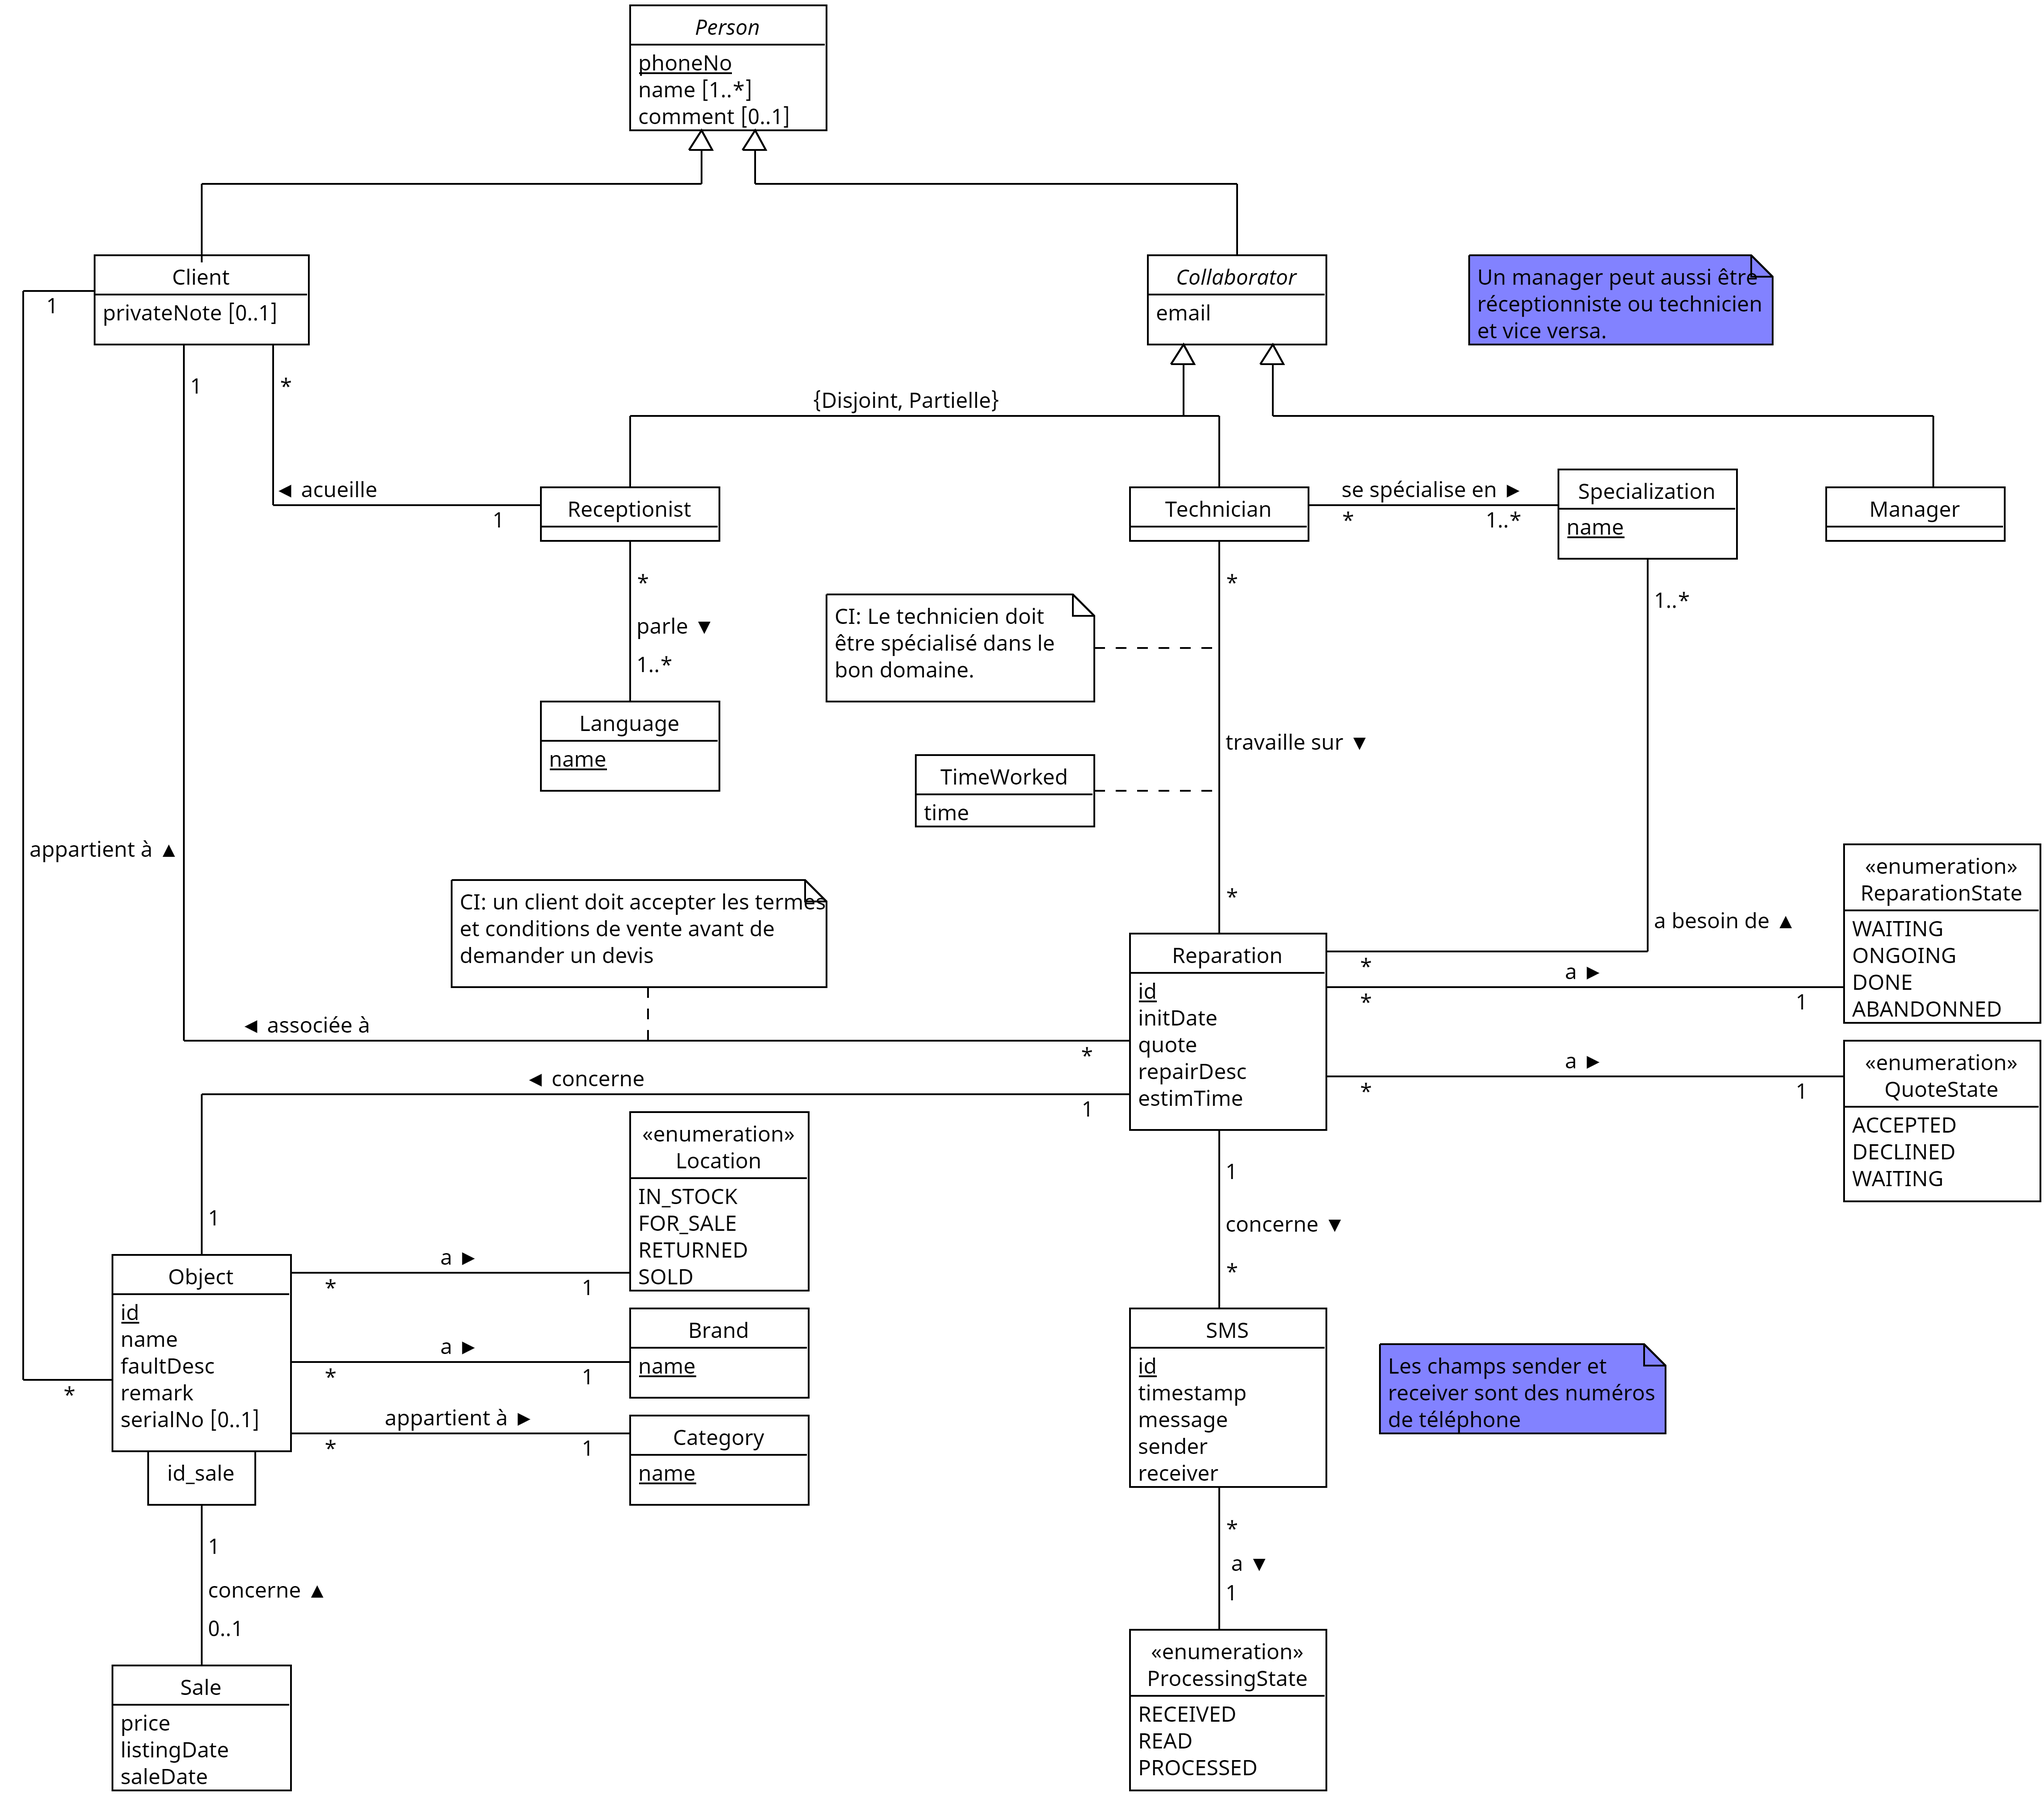
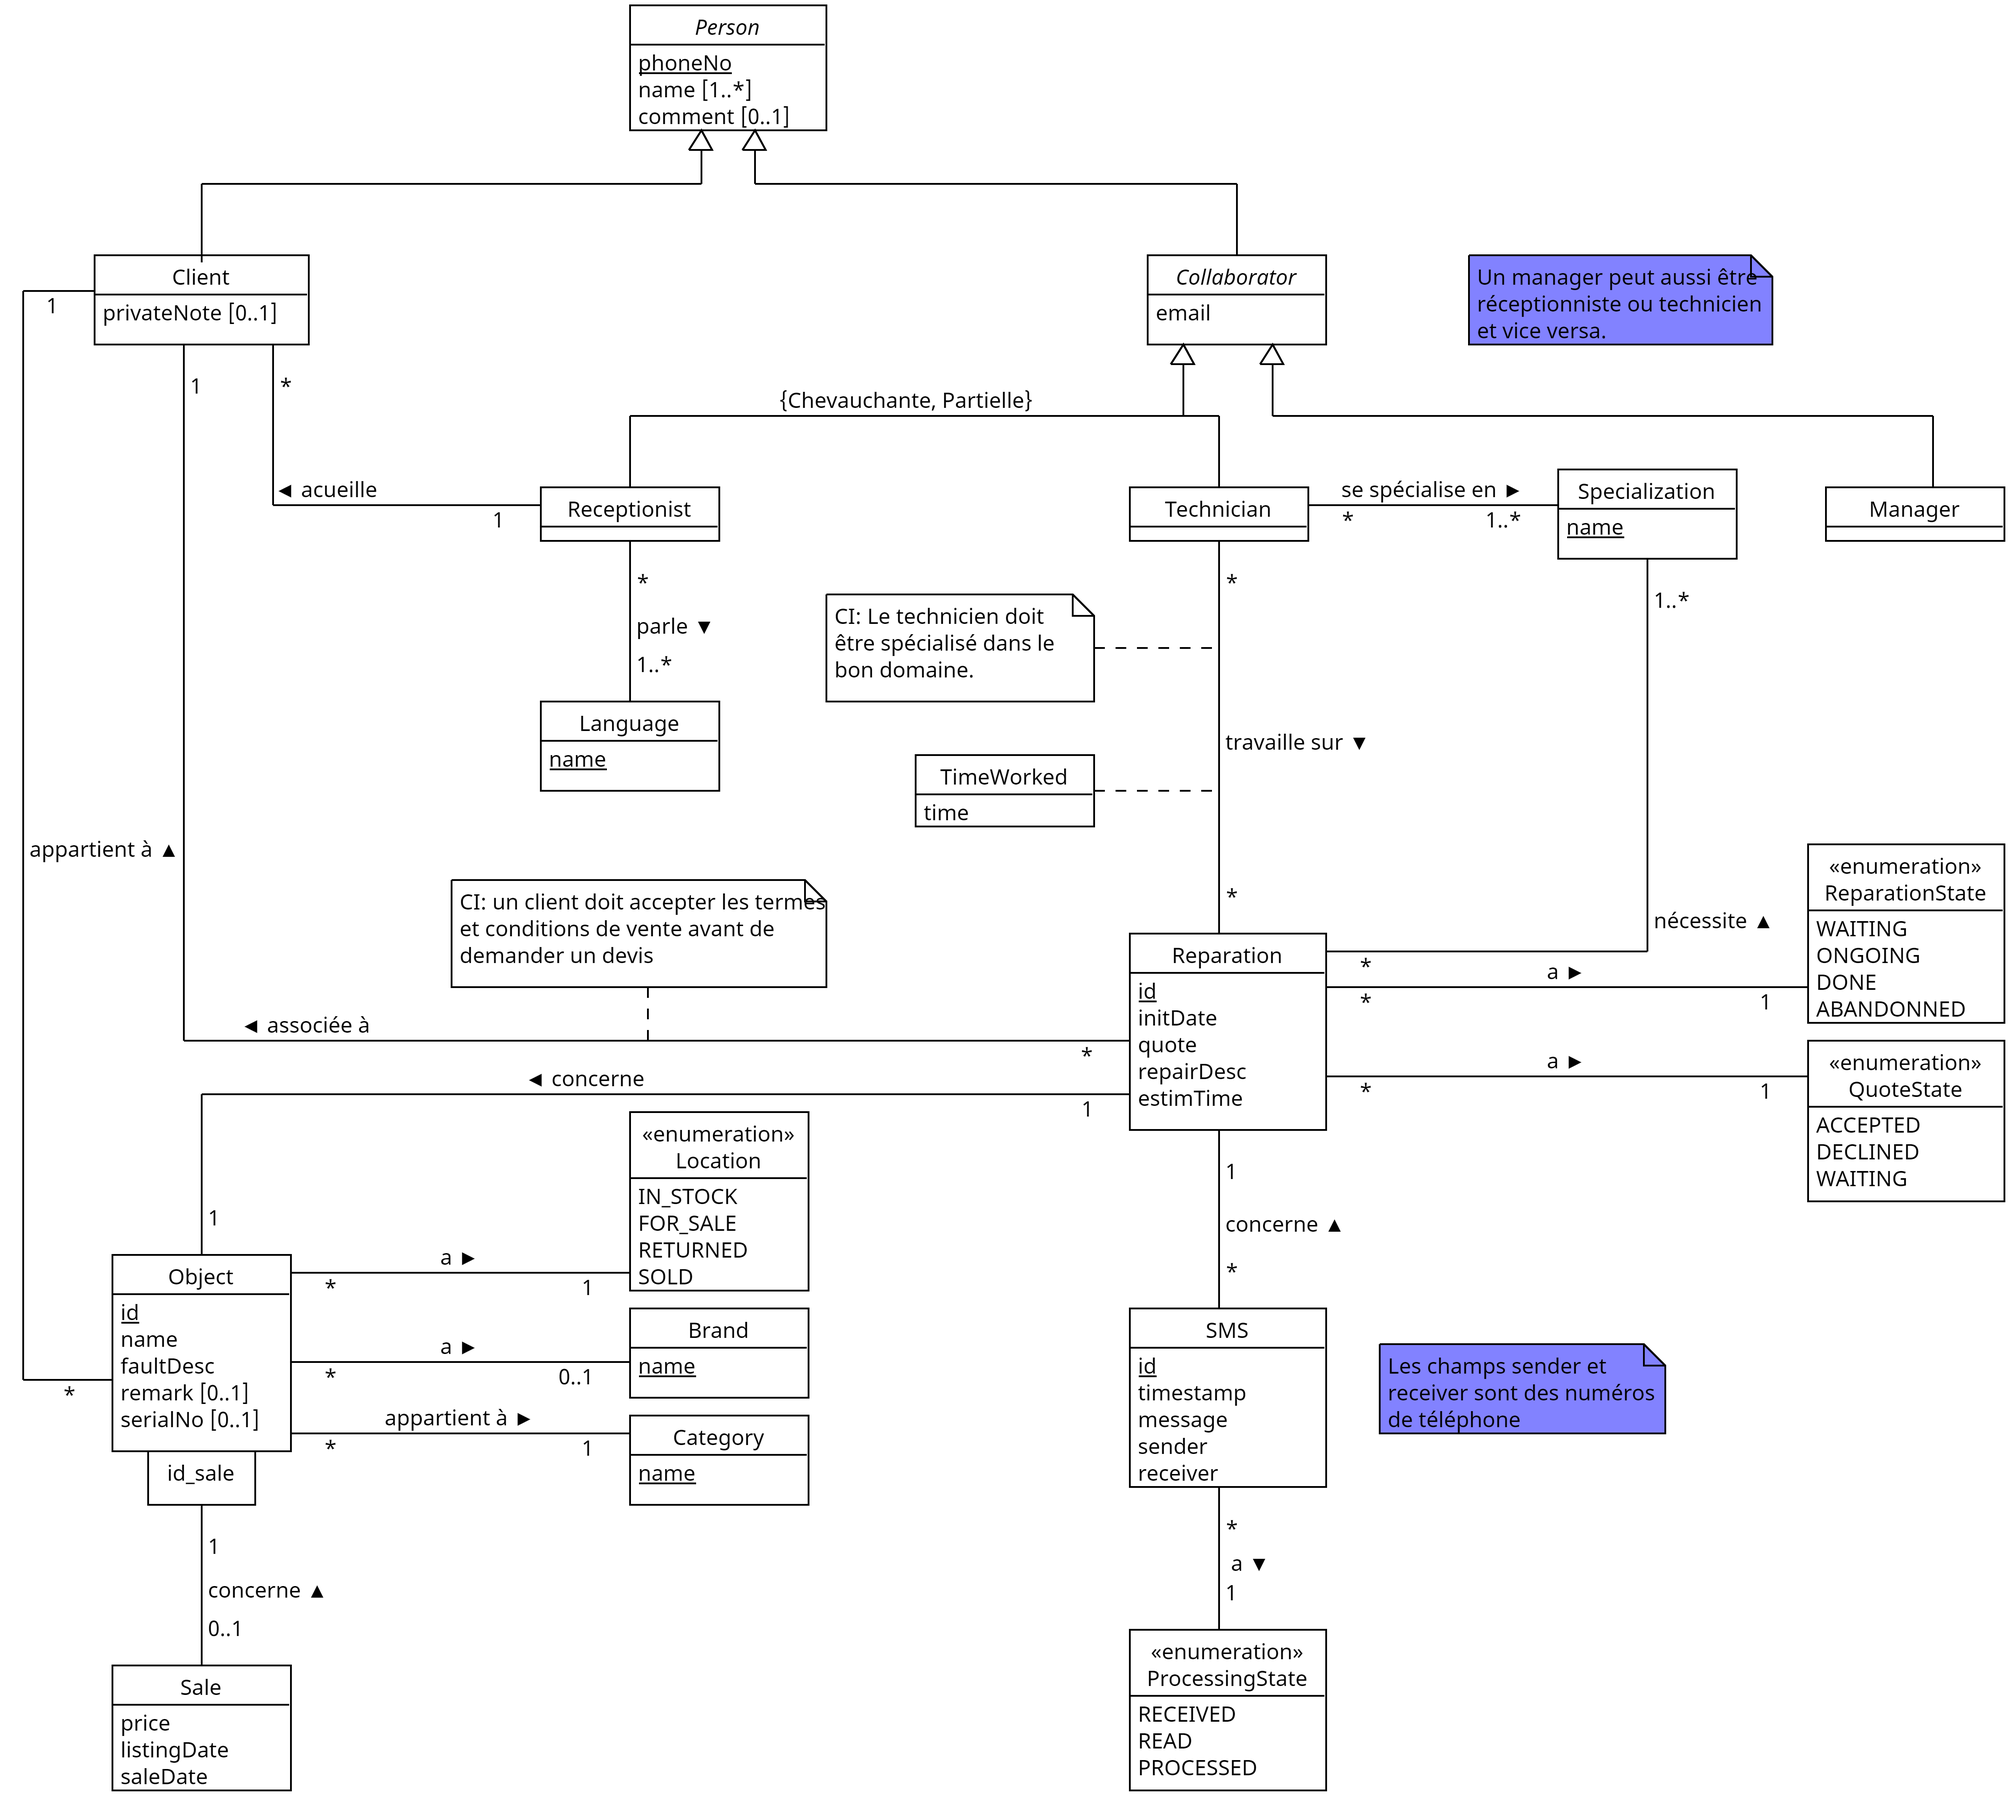
Small corrections in uml, update exports, update cahier des charges

diff --git a/doc/cahiercharges.tex b/doc/cahiercharges.tex
@@ -53,10 +53,10 @@ Les informations suivantes doivent être prises en compte lors de la conception 
 \subsection*{Objet}
 Un objet est caractérisé par :
 \begin{itemize}
+    \item Un identifiant unique.
     \item Un nom.
     \item Une catégorie.
     \item Une description de la panne.
-    \item Un état de réparation (en attente, en réparation, réparé).
     \item Une localisation (en stock, en vente, restitué, vendu).
 \end{itemize}
 
@@ -67,9 +67,12 @@ De plus, un objet peut optionnellement avoir les caractéristiques suivants :
     \item Une remarque.
 \end{itemize}
 
+Un objet est possédé par un unique client.
+
 \subsection*{Réparation}
 Une réparation est caractérisée par :
 \begin{itemize}
+    \item Un identifiant unique.
     \item La date de demande initiale.
     \item Un devis (coût de la réparation en CHF).
     \item L'état d'acceptation du devis (accepté, refusé, en attente).
@@ -77,14 +80,15 @@ Une réparation est caractérisée par :
     \item La ou les expertises nécessaires à la réparation.
     \item Un descriptif de la réparation.
     \item Le temps estimé de réparation.
-    \item Le temps effectif passé par les réparateurs à effectuer la réparation.
 \end{itemize}
 
-Une réparation est associée à un client auquel l'objet appartient, un réceptionniste qui a traité la demande, un ou plusieurs techniciens qui effectuent la réparation, et une communication SMS.
+Une réparation est associée à un client auquel l'objet appartient, l'objet en lui-même, un réceptionniste qui a traité la demande, un ou plusieurs techniciens qui effectuent la réparation, et une communication SMS.
+On souhaite pouvoir savoir le temps que chaque technicien a passé sur une réparation.
 
 \subsection*{Vente}
 Une vente est caractérisée par :
 \begin{itemize}
+    \item Un identifiant unique.
     \item Un prix en CHF.
     \item Une date de mise en vente.
     \item Une date de vente.
@@ -121,13 +125,15 @@ Un technicien possède une ou plusieurs expertises. Un réceptionniste possède 
 \subsection*{SMS}
 Un SMS est caractérisé par :
 \begin{itemize}
+    \item Un identifiant unique.
     \item Un émetteur (l'Association ou le client).
+    \item Un destinataire.
     \item Un message.
     \item Une date et heure.
-    \item Un état de traitement du message.
+    \item Un état de traitement du message (reçu, lu, traité).
 \end{itemize}
 
-Un ensemble de SMS forment une conversation. Une conversation est liée à une unique réparation.
+Un ensemble de SMS forment une conversation. Une conversation est liée à une unique réparation. Un SMS ne concerne qu'une seule réparation.
 
 \section{Formats}
 Les normes suivantes sont utilisées dans l'application :
